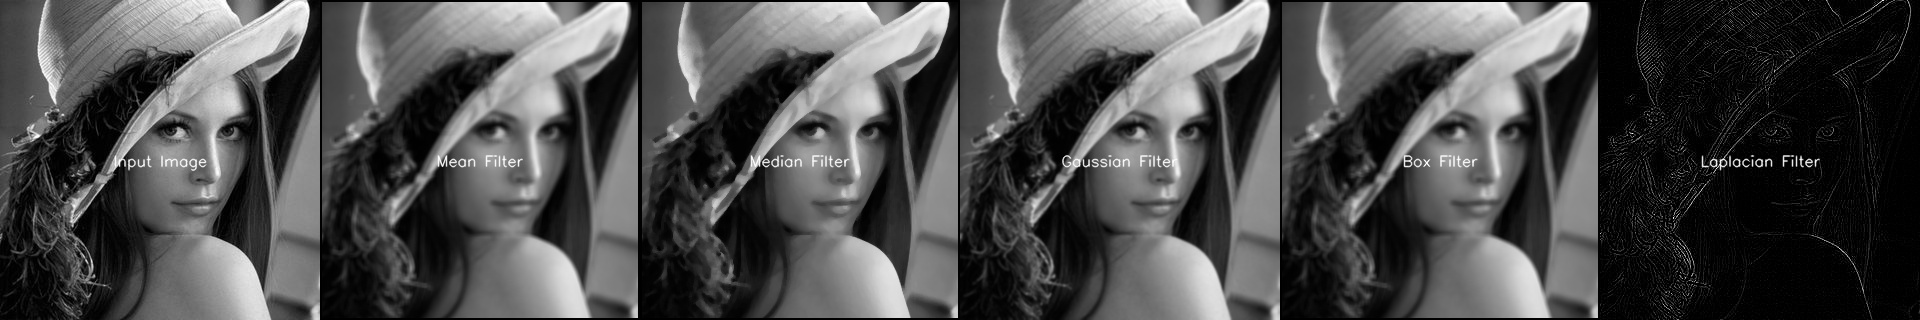
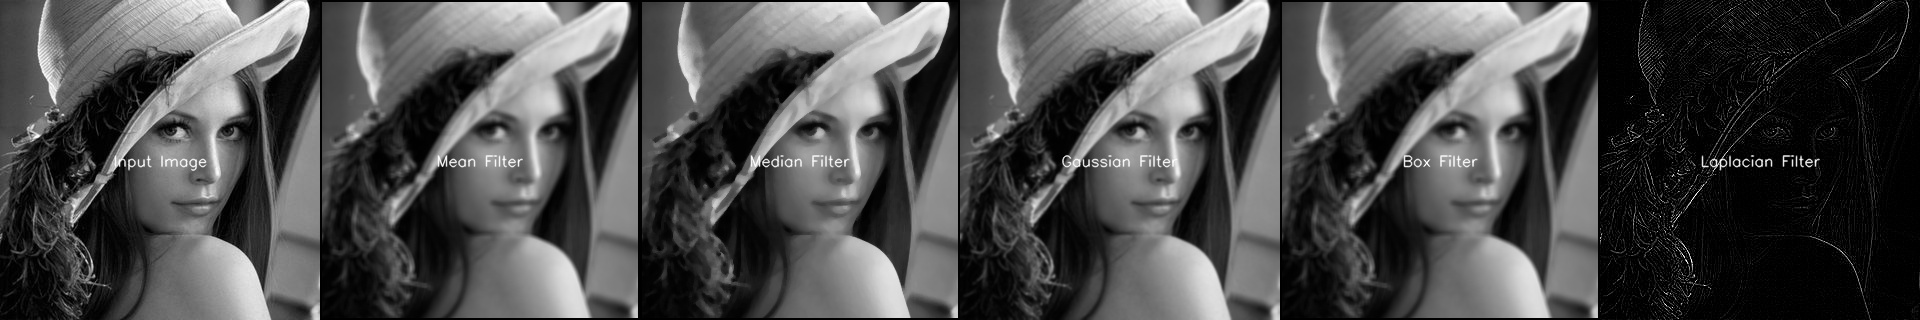
Refactor row and column iterators of the filters for clean code

Changed region(s): [[0.8125, 0.0, 1.0, 1.0], [0.9375, 0.5625, 1.0, 0.8125], [0.9688, 0.4375, 1.0, 0.5312]]

diff --git a/5_filters.py b/5_filters.py
@@ -56,20 +56,20 @@ def mean_filter(image, kernel_size):
     k = kernel_size // 2
 
     # Loop through the rows of the image (excluding the edges defined by k).
-    for i in range(k, height - k):
+    for row in range(k, height - k):
         # Loop through the columns of the image (excluding the edges defined by k).
-        for j in range(k, width - k):
+        for column in range(k, width - k):
             # Initialize a variable sum_val to store the sum of pixel values within the kernel.
             sum_val = 0
 
             # Loop through the rows and columns of the kernel centered at (i, j).
-            for m in range(-k, k + 1):
-                for n in range(-k, k + 1):
+            for kernelRow in range(-k, k + 1):
+                for kernelColumn in range(-k, k + 1):
                     # Accumulate the pixel values within the kernel.
-                    sum_val += image[i + m, j + n]
+                    sum_val += image[row + kernelRow, column + kernelColumn]
 
             # Compute the mean (average) value by dividing the sum by the total number of pixels in the kernel.
-            meanResult[i, j] = sum_val // (kernel_size**2)
+            meanResult[row, column] = sum_val // (kernel_size**2)
 
     # Return the resulting image after applying the mean filter.
     return meanResult
@@ -91,16 +91,18 @@ def median_filter(image, kernel_size):
     pad = kernel_size // 2
 
     # Iterate over each pixel in the image
-    for i in range(pad, height - pad):
-        for j in range(pad, width - pad):
+    for row in range(pad, height - pad):
+        for column in range(pad, width - pad):
             # Extract the neighborhood around the current pixel
-            neighborhood = image[i - pad : i + pad + 1, j - pad : j + pad + 1]
+            neighborhood = image[
+                row - pad : row + pad + 1, column - pad : column + pad + 1
+            ]
 
             # Calculate the median value of the neighborhood
             median_value = np.median(neighborhood)
 
             # Assign the median value to the output image
-            medianResult[i, j] = median_value
+            medianResult[row, column] = median_value
 
     return medianResult
 
@@ -154,16 +156,18 @@ def box_filter(image, kernel_size):
     pad = kernel_size // 2
 
     # Iterate over each pixel in the image
-    for i in range(pad, height - pad):
-        for j in range(pad, width - pad):
+    for row in range(pad, height - pad):
+        for column in range(pad, width - pad):
             # Extract the neighborhood around the current pixel
-            neighborhood = image[i - pad : i + pad + 1, j - pad : j + pad + 1]
+            neighborhood = image[
+                row - pad : row + pad + 1, column - pad : column + pad + 1
+            ]
 
             # Calculate the mean value of the neighborhood
             mean_value = np.mean(neighborhood)
 
             # Assign the mean value to the output image
-            output[i, j] = mean_value
+            output[row, column] = mean_value
 
     return output
 
